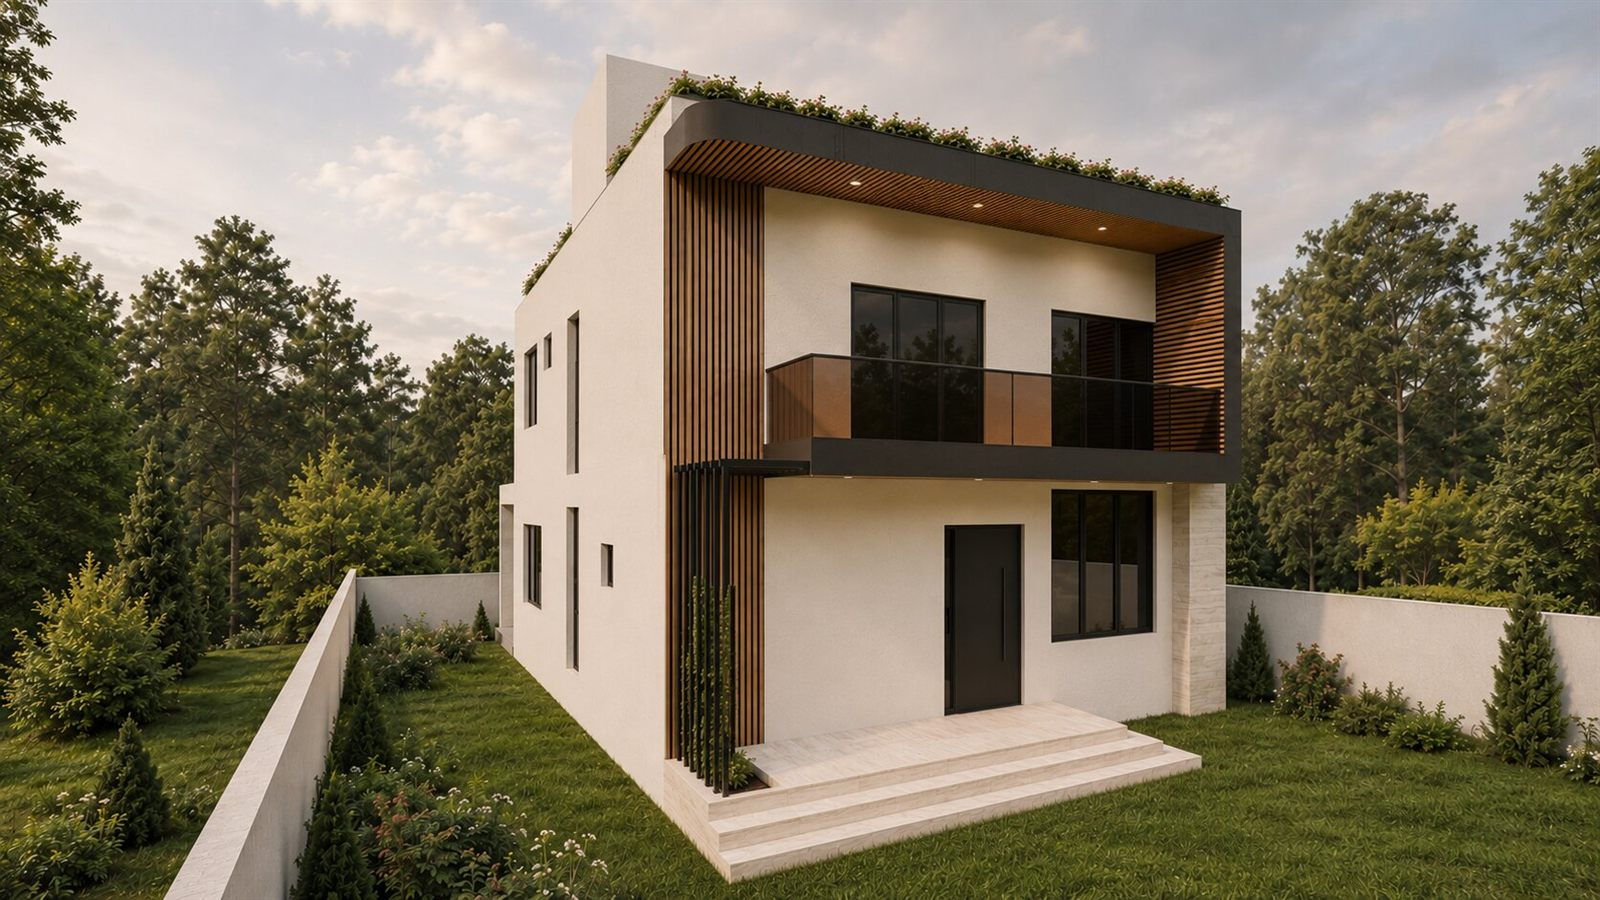
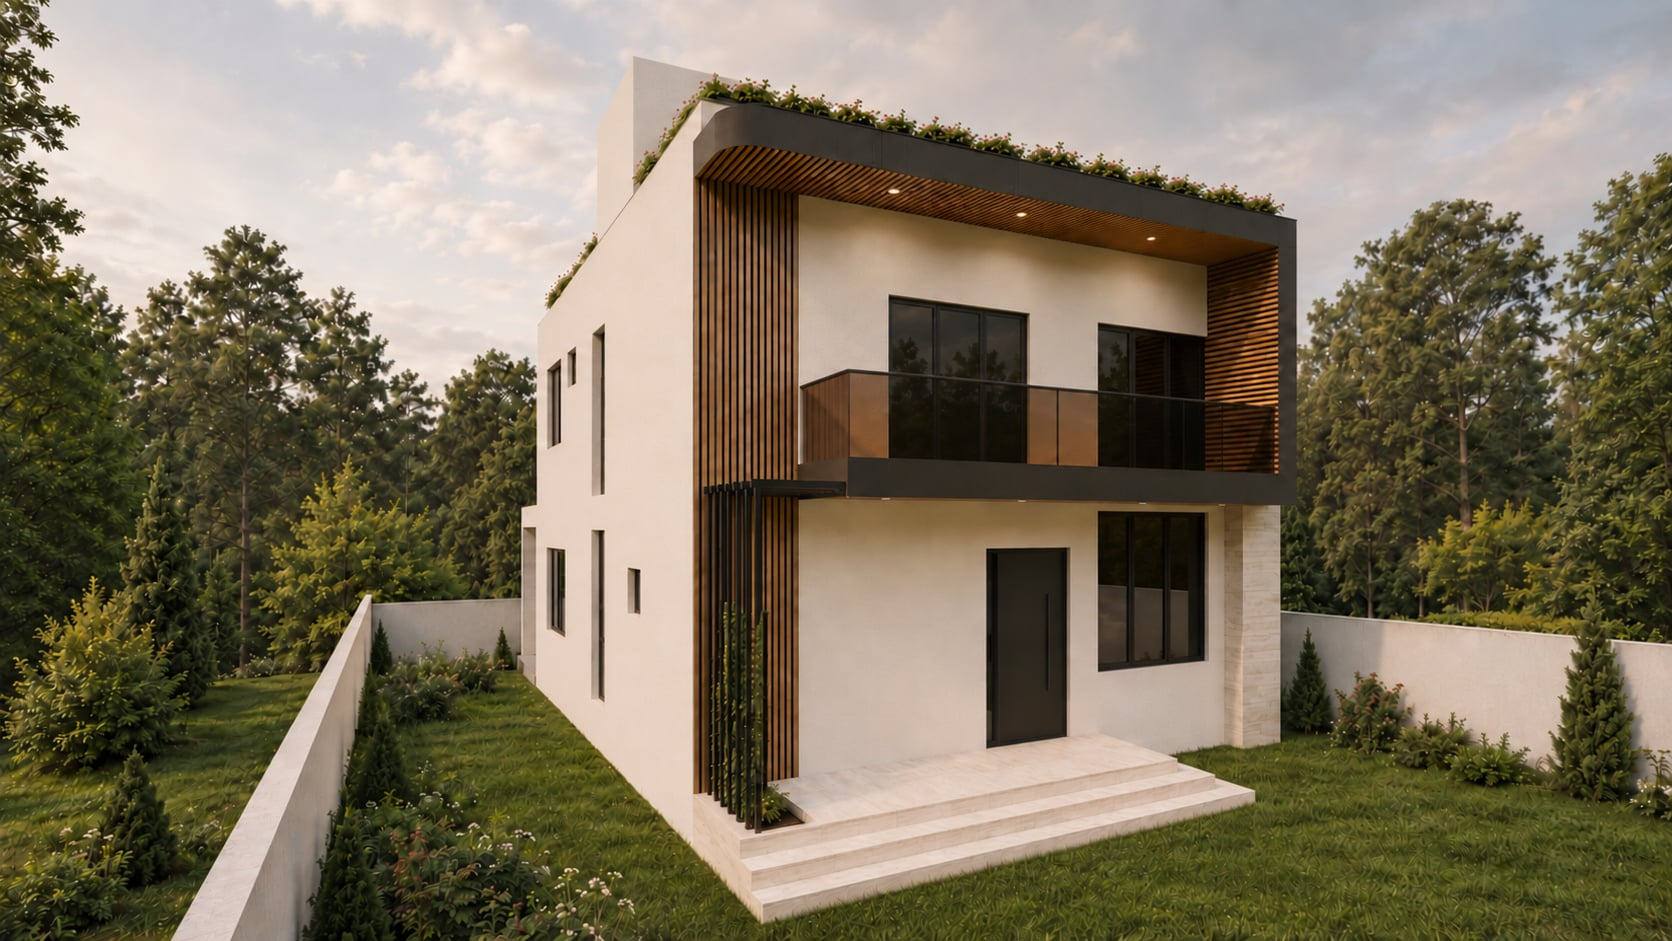
feat: project-detail lightbox, persist dark mode, optimize h-4/h-18 photos
- ProjectDetail: click main image to open full-screen lightbox (same as
  /projects grid), with zoom-in cursor + magnifier hint and thumb sync
- Dark mode now persists across reloads (localStorage + pre-paint inline
  script in index.html) instead of always resetting to light
- Replace h-4/2 and h-18/2 with optimized JPGs (2.4MB/2.1MB PNG -> 236KB)

diff --git a/src/components/blogpage/ProjectDetail.jsx b/src/components/blogpage/ProjectDetail.jsx
@@ -4,6 +4,8 @@ import { Icon } from "@iconify/react"
 import Seo from "../common/Seo"
 import { list } from "../data/Data"
 import { useLang } from "../../i18n"
+import Lightbox from "yet-another-react-lightbox"
+import "yet-another-react-lightbox/styles.css"
 import "./projectDetail.css"
 
 const ProjectDetail = () => {
@@ -11,6 +13,7 @@ const ProjectDetail = () => {
   const { id } = useParams()
   const project = list.find((p) => String(p.id) === String(id))
   const [active, setActive] = useState(0)
+  const [lightboxOpen, setLightboxOpen] = useState(false)
 
   if (!project) {
     return (
@@ -43,8 +46,16 @@ const ProjectDetail = () => {
           <div className="pd-grid">
             {/* gallery */}
             <div className="pd-gallery">
-              <div className="pd-main">
+              <div
+                className="pd-main"
+                onClick={() => setLightboxOpen(true)}
+                role="button"
+                aria-label={tr("ფოტოს გადიდება")}
+              >
                 <img src={images[active]} alt={name} />
+                <span className="pd-zoom-hint">
+                  <Icon icon="mdi:magnify-plus-outline" />
+                </span>
               </div>
               {images.length > 1 && (
                 <div className="pd-thumbs">
@@ -89,6 +100,16 @@ const ProjectDetail = () => {
           </div>
         </div>
       </section>
+
+      <Lightbox
+        open={lightboxOpen}
+        index={active}
+        controller={{ closeOnBackdropClick: true }}
+        close={() => setLightboxOpen(false)}
+        on={{ view: ({ index }) => setActive(index) }}
+        slides={images.map((img) => ({ src: img }))}
+        styles={{ root: { zIndex: 100000 } }}
+      />
     </>
   )
 }

diff --git a/src/components/common/ThemeToggle.jsx b/src/components/common/ThemeToggle.jsx
@@ -2,23 +2,30 @@ import React, { useEffect, useState } from "react"
 import { Icon } from "@iconify/react"
 import "./themeToggle.css"
 
-// The site ALWAYS starts in light mode on every load (the choice is not
-// persisted across reloads). Toggling only affects the current session.
+// The theme choice PERSISTS across reloads: it's saved in localStorage and
+// re-applied on load (an inline script in index.html sets data-theme before
+// first paint to avoid a flash; this just syncs React state to it). Default
+// is light when nothing was saved.
 const ThemeToggle = () => {
   const [theme, setTheme] = useState("light")
 
   useEffect(() => {
-    setTheme("light")
-    document.documentElement.setAttribute("data-theme", "light")
+    let saved = "light"
     try {
-      localStorage.removeItem("theme")
+      const stored = localStorage.getItem("theme")
+      if (stored === "dark" || stored === "light") saved = stored
     } catch {}
+    setTheme(saved)
+    document.documentElement.setAttribute("data-theme", saved)
   }, [])
 
   const toggle = () => {
     const next = theme === "dark" ? "light" : "dark"
     setTheme(next)
     document.documentElement.setAttribute("data-theme", next)
+    try {
+      localStorage.setItem("theme", next)
+    } catch {}
   }
 
   return (

diff --git a/src/components/blogpage/projectDetail.css b/src/components/blogpage/projectDetail.css
@@ -25,17 +25,47 @@
 
 /* gallery */
 .pd-main {
+  position: relative;
   border-radius: 18px;
   overflow: hidden;
   aspect-ratio: 16 / 10;
   background: #eef2fa;
   box-shadow: 0 20px 46px -24px rgba(48, 43, 136, 0.4);
+  cursor: zoom-in;
 }
 .pd-main img {
   width: 100%;
   height: 100%;
   object-fit: cover;
   display: block;
+  transition: transform 0.4s ease;
+}
+.pd-main:hover img {
+  transform: scale(1.03);
+}
+/* small magnifier hint in the corner — signals the image is zoomable */
+.pd-zoom-hint {
+  position: absolute;
+  top: 12px;
+  right: 12px;
+  display: flex;
+  align-items: center;
+  justify-content: center;
+  width: 38px;
+  height: 38px;
+  border-radius: 50%;
+  background: rgba(45, 57, 84, 0.55);
+  color: #fff;
+  font-size: 20px;
+  backdrop-filter: blur(4px);
+  opacity: 0;
+  transform: translateY(-4px);
+  transition: opacity 0.3s ease, transform 0.3s ease;
+  pointer-events: none;
+}
+.pd-main:hover .pd-zoom-hint {
+  opacity: 1;
+  transform: translateY(0);
 }
 .pd-thumbs {
   display: flex;

diff --git a/index.html b/index.html
@@ -5,6 +5,22 @@
     <meta name="viewport" content="width=device-width, initial-scale=1" />
     <meta name="theme-color" content="#302B88" />
 
+    <!-- Apply the saved theme BEFORE first paint so a dark-mode reload doesn't
+         flash light. Mirrors the localStorage key used by ThemeToggle.jsx. -->
+    <script>
+      (function () {
+        try {
+          var t = localStorage.getItem("theme");
+          document.documentElement.setAttribute(
+            "data-theme",
+            t === "dark" ? "dark" : "light"
+          );
+        } catch (e) {
+          document.documentElement.setAttribute("data-theme", "light");
+        }
+      })();
+    </script>
+
     <!-- Primary SEO -->
     <title>არქიტექტურული მომსახურება | Asymmetry — არქიტექტურული სტუდია</title>
     <meta
